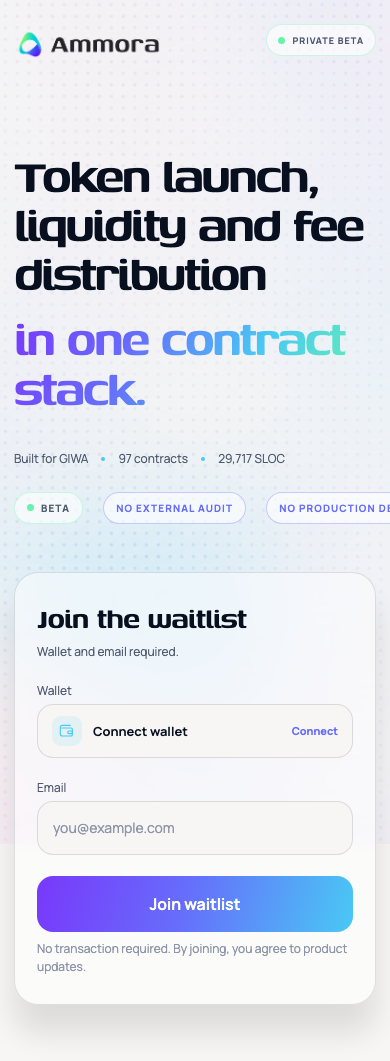
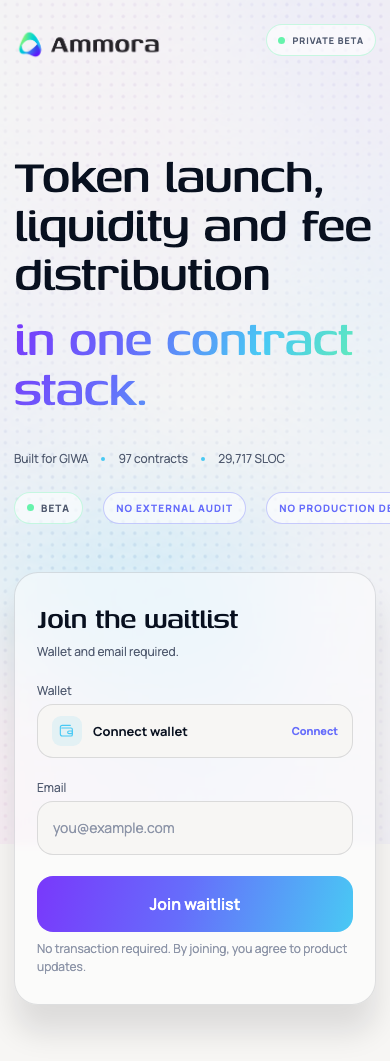
style: soften display typography

diff --git a/styles.css b/styles.css
@@ -162,14 +162,18 @@ h2 {
 h1 {
   max-width: 603px;
   font-size: var(--am-type-display);
-  font-weight: 600;
-  letter-spacing: -0.047em;
+  font-weight: 500;
+  letter-spacing: -0.02em;
   line-height: 60px;
 }
 
 .title-base,
 .title-accent {
   display: block;
+}
+
+.title-base {
+  white-space: nowrap;
 }
 
 .title-accent {
@@ -259,8 +263,8 @@ h1 {
 
 .waitlist-card h2 {
   font-size: var(--am-type-title);
-  font-weight: 600;
-  letter-spacing: -0.025em;
+  font-weight: 500;
+  letter-spacing: -0.02em;
   line-height: 34px;
 }
 
@@ -448,6 +452,7 @@ h1 {
 
   .title-base {
     max-width: 360px;
+    white-space: normal;
   }
 
   .title-accent {

diff --git a/docs/DESIGN-SYSTEM.md b/docs/DESIGN-SYSTEM.md
@@ -16,7 +16,7 @@
 
 ## Typography
 
-- Display: `Genos`, weight 600. Hero와 section title에만 사용한다.
+- Display: `Genos`, weight 500, letter spacing -2%. Hero와 waitlist title에만 사용한다.
 - Body: `Manrope`, weight 400–700. label, input, status, 설명에 사용한다.
 - Hero는 Genos의 넓은 구조를 살리되 line-height `0.83–0.85`, letter-spacing `-0.047em`을 사용한다.
 - 본문 최소 크기는 12px, form label은 11px 이상을 유지한다.
